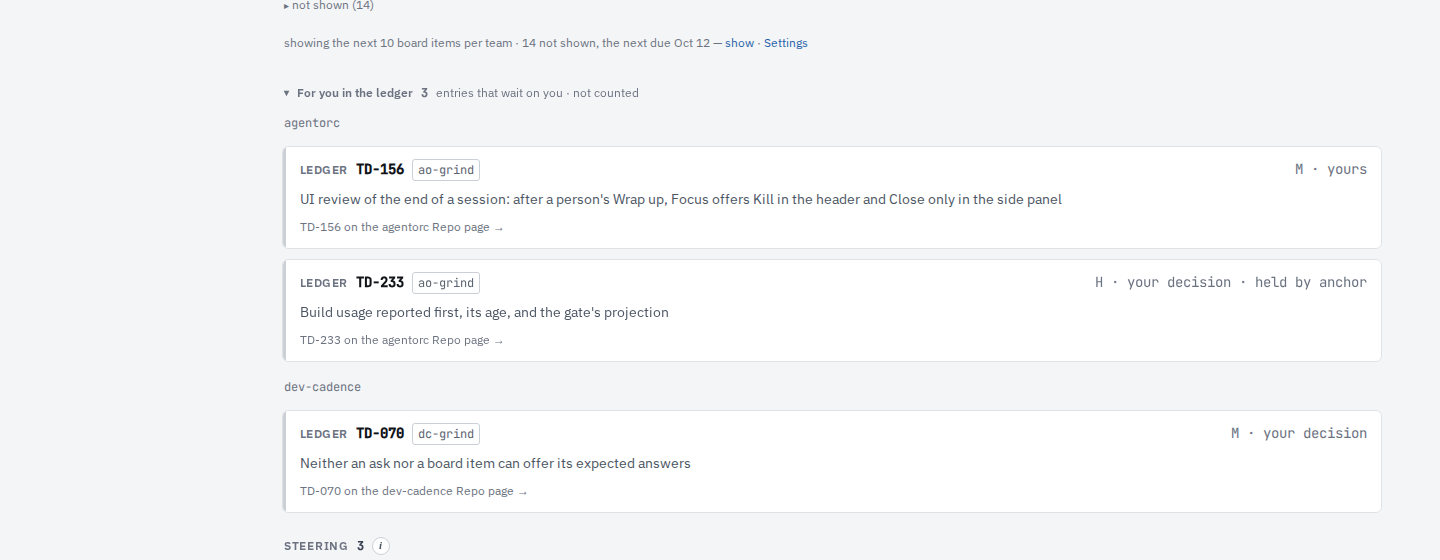
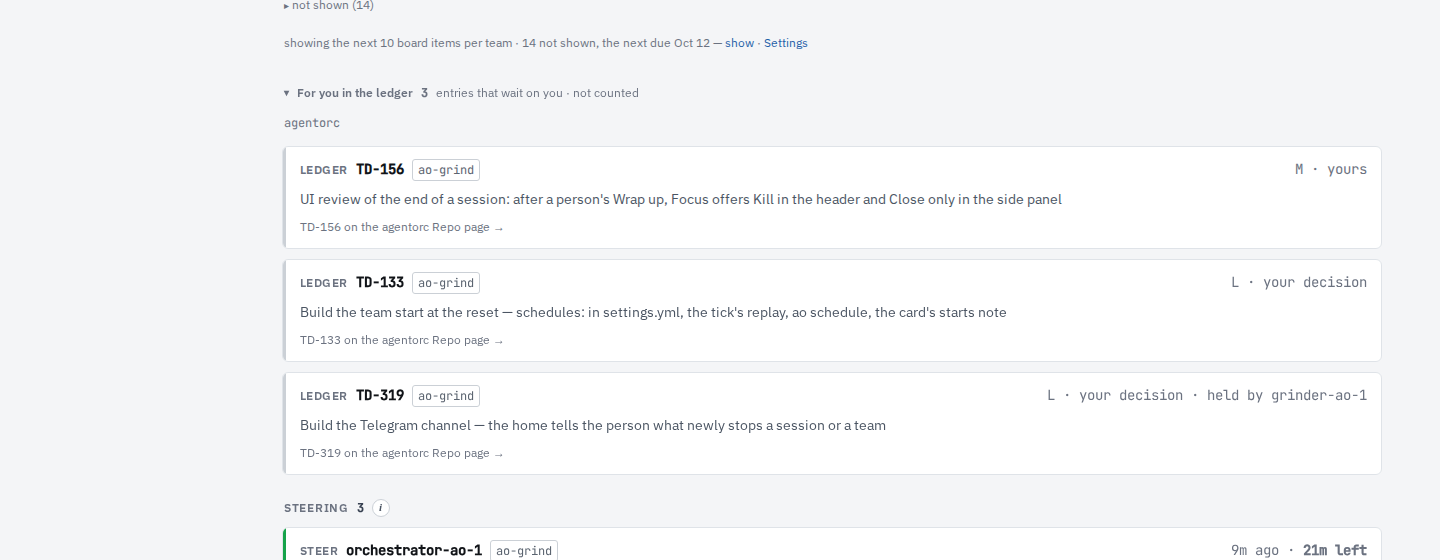
TD-367: the mockup's rows are real for-you entries; the count the fold would hold; the row's team badge

diff --git a/docs/mockups/Inbox.dc.html b/docs/mockups/Inbox.dc.html
@@ -214,13 +214,13 @@
   <div class="txt" style="color: #4b5563;">UI review of the end of a session: after a person's Wrap up, Focus offers Kill in the header and Close only in the side panel</div>
   <div class="ctl"><a href="#" class="muted" style="font-size: 12px;">TD-156 on the agentorc Repo page →</a></div>
 </div><div class="mcard "><span class="sbar" style="background: #cbd0d6;"></span>
-  <div class="who"><span class="kind">ledger</span><span class="nm">TD-233</span><span class="badge">ao-grind</span><span style="flex-grow: 1;"></span><span class="meta">H · your decision · held by anchor</span></div>
-  <div class="txt" style="color: #4b5563;">Build usage reported first, its age, and the gate's projection</div>
-  <div class="ctl"><a href="#" class="muted" style="font-size: 12px;">TD-233 on the agentorc Repo page →</a></div>
-</div><div class="muted mono" style="padding: 6px 2px 4px; font-size: 12px;">dev-cadence</div><div class="mcard "><span class="sbar" style="background: #cbd0d6;"></span>
-  <div class="who"><span class="kind">ledger</span><span class="nm">TD-070</span><span class="badge">dc-grind</span><span style="flex-grow: 1;"></span><span class="meta">M · your decision</span></div>
-  <div class="txt" style="color: #4b5563;">Neither an ask nor a board item can offer its expected answers</div>
-  <div class="ctl"><a href="#" class="muted" style="font-size: 12px;">TD-070 on the dev-cadence Repo page →</a></div>
+  <div class="who"><span class="kind">ledger</span><span class="nm">TD-133</span><span class="badge">ao-grind</span><span style="flex-grow: 1;"></span><span class="meta">L · your decision</span></div>
+  <div class="txt" style="color: #4b5563;">Build the team start at the reset — schedules: in settings.yml, the tick's replay, ao schedule, the card's starts note</div>
+  <div class="ctl"><a href="#" class="muted" style="font-size: 12px;">TD-133 on the agentorc Repo page →</a></div>
+</div><div class="mcard "><span class="sbar" style="background: #cbd0d6;"></span>
+  <div class="who"><span class="kind">ledger</span><span class="nm">TD-319</span><span class="badge">ao-grind</span><span style="flex-grow: 1;"></span><span class="meta">L · your decision · held by grinder-ao-1</span></div>
+  <div class="txt" style="color: #4b5563;">Build the Telegram channel — the home tells the person what newly stops a session or a team</div>
+  <div class="ctl"><a href="#" class="muted" style="font-size: 12px;">TD-319 on the agentorc Repo page →</a></div>
 </div><div class="isec-h"><span>Steering</span><span class="n">3</span><span class="info">i</span><span style="flex-grow: 1;"></span></div><div class="mcard "><span class="sbar" style="background: #16a34a;"></span>
   <div class="who"><span class="kind">steer</span><span class="nm">orchestrator-ao-1</span><span class="badge">ao-grind</span><span style="flex-grow: 1;"></span><span class="meta">9m ago · <b>21m left</b></span></div>
   <div class="txt">tdgrind-ao-1 has ended its run with the ledger still holding work. Restart it with fresh context, or stop the team for the night?</div><div class="meta">will go with: <b style="color: #374151;">Restart it once</b> — doing nothing is a valid answer</div><div class="sugg"><span class="lbl">suggested by orchestrator-ao-1</span><span class="btn sm ">“Restart it once” · default</span><span class="btn sm ">“Stop the team”</span></div>

diff --git a/docs/mockups/gen.py b/docs/mockups/gen.py
@@ -1497,9 +1497,8 @@ def inbox(picks=False):
         ledger = ('<div class="isec-h" style="text-transform: none; letter-spacing: 0;"><span style="font-size: 10px;">▾</span><span>For you in the ledger</span><span class="n" style="background: transparent; color: #6b7280;">3</span><span class="muted" style="font-size: 12px; font-weight: 400;">entries that wait on you · not counted</span></div>'
             + '<div class="muted mono" style="padding: 2px 2px 4px; font-size: 12px;">agentorc</div>'
             + lrow("TD-156", "M", "UI review of the end of a session: after a person's Wrap up, Focus offers Kill in the header and Close only in the side panel", "yours", "agentorc", "ao-grind")
-            + lrow("TD-233", "H", "Build usage reported first, its age, and the gate's projection", "your decision", "agentorc", "ao-grind", "held by anchor")
-            + '<div class="muted mono" style="padding: 6px 2px 4px; font-size: 12px;">dev-cadence</div>'
-            + lrow("TD-070", "M", "Neither an ask nor a board item can offer its expected answers", "your decision", "dev-cadence", "dc-grind"))
+            + lrow("TD-133", "L", "Build the team start at the reset — schedules: in settings.yml, the tick's replay, ao schedule, the card's starts note", "your decision", "agentorc", "ao-grind")
+            + lrow("TD-319", "L", "Build the Telegram channel — the home tells the person what newly stops a session or a team", "your decision", "agentorc", "ao-grind", "held by grinder-ao-1"))
         body = (isec("Needs you", 7, opened=True) + "".join(needs) + later + ledger + isec("Steering", 3) + "".join(steering)
                 + isec("Waiting on them", 2) + "".join(waiting) + isec("Answered for you", 1) + "".join(answered) + isec("FYI", "2 new · 14", fyi_extra) + "".join(fyi)
                 + '<div class="muted" style="padding: 2px 2px 0; font-size: 12px;">12 earlier entries — <a href="#">show</a> · 1 snoozed — <a href="#">show</a></div>')
